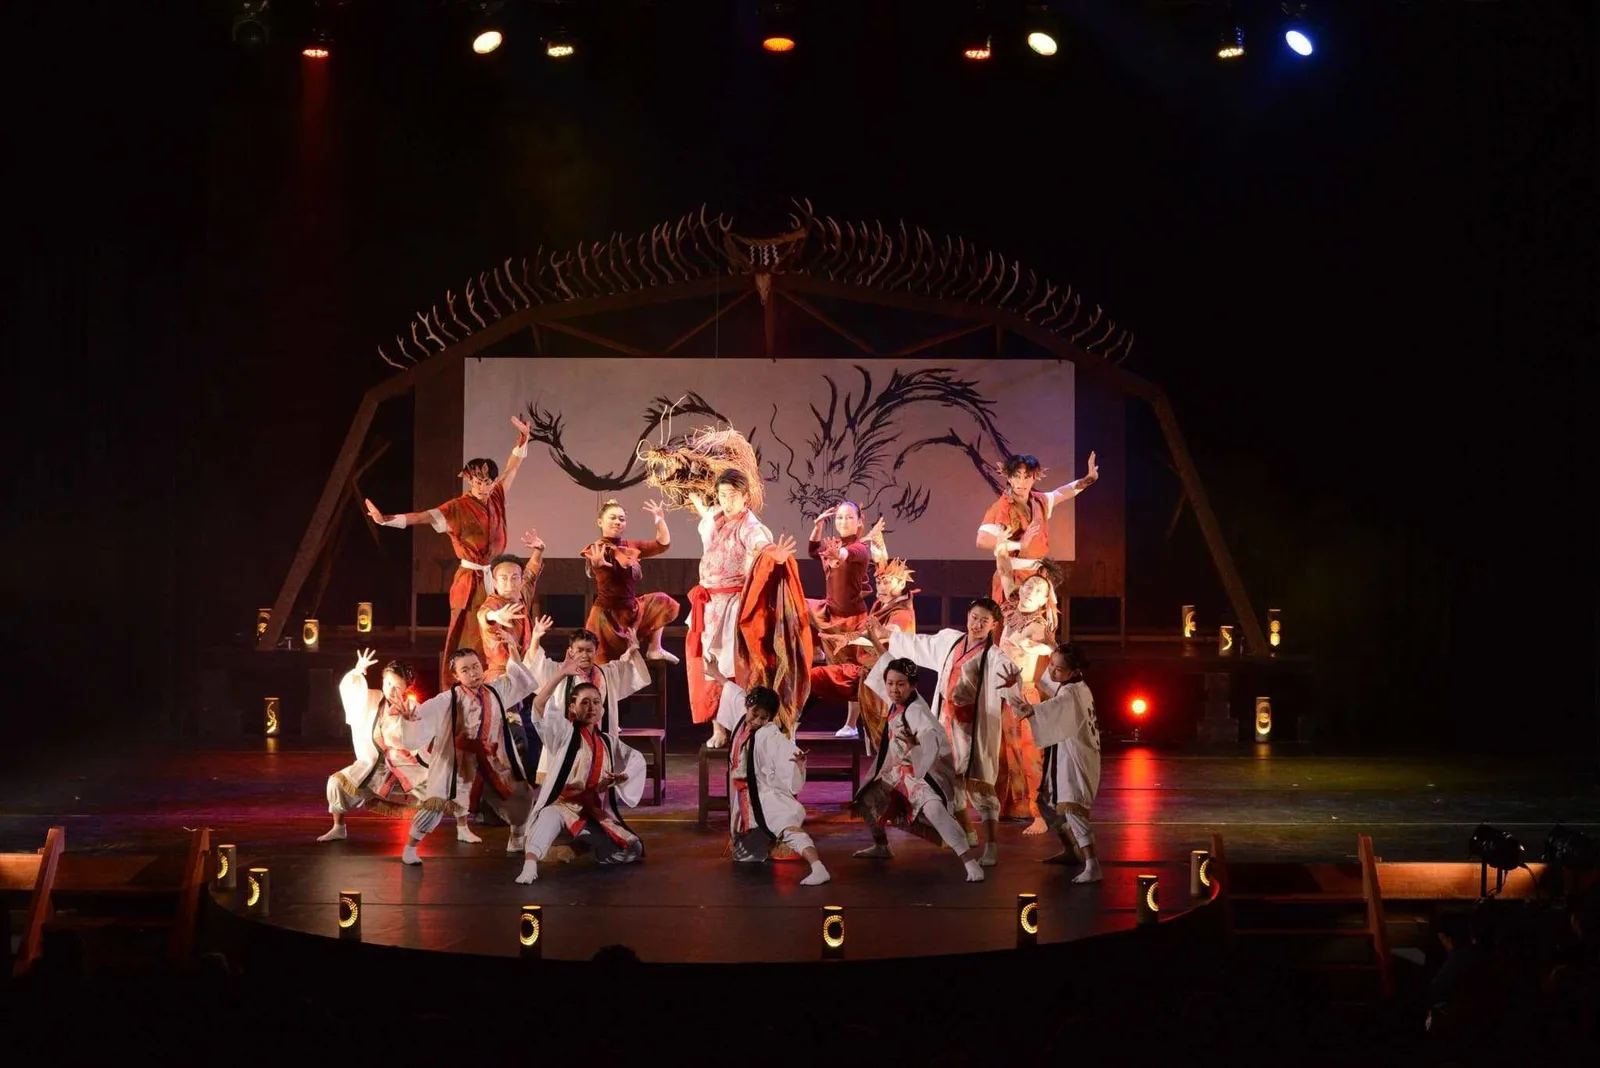
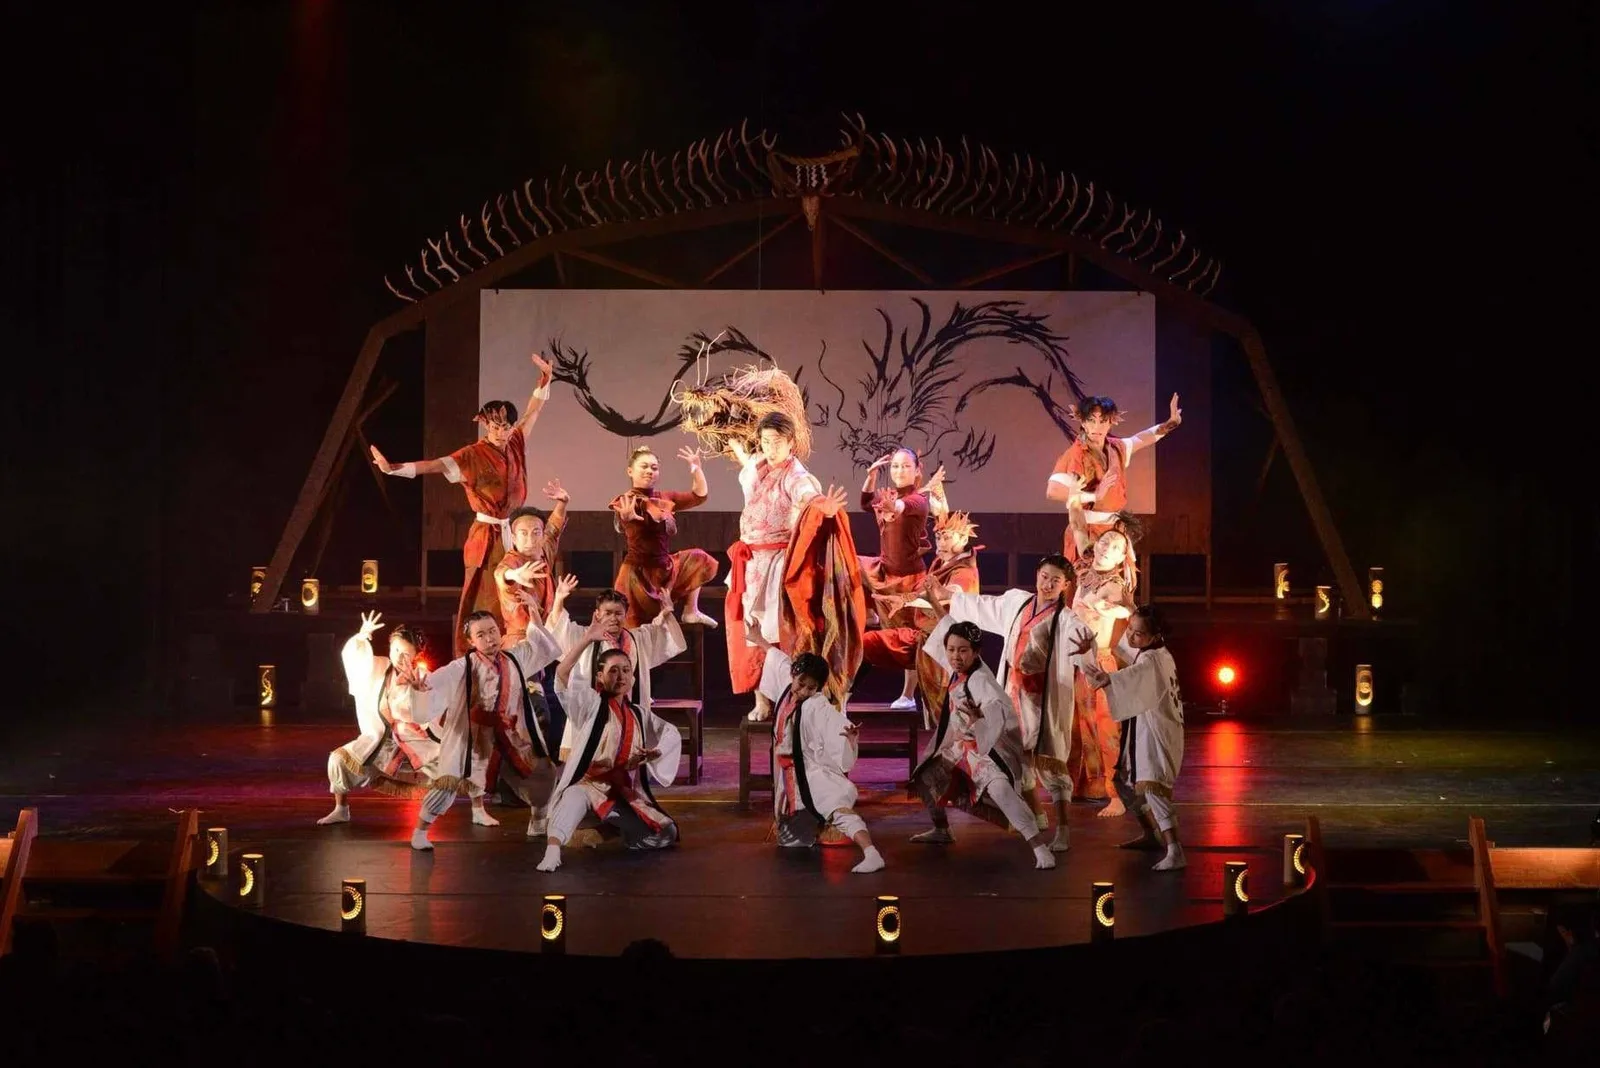
art: トップの舞台写真1枚目を、中心を合わせ直した写真に差し替え

diff --git a/art/index.html b/art/index.html
@@ -245,7 +245,7 @@
 </div>
 <figure>
 <div class="stage-slides" role="group" aria-roledescription="スライドショー" aria-label="舞台写真（参考イメージ）">
-<img class="is-on" src="media/stage-05.webp" alt="龍の絵を背に、大勢の踊り手が並ぶ舞台" width="1600" height="1068" loading="lazy">
+<img class="is-on" src="media/stage-05.webp?v=2026101402" alt="龍の絵を背に、大勢の踊り手が並ぶ舞台" width="1600" height="1068" loading="lazy">
 <img src="media/stage-01.webp" alt="赤と黒の衣装の踊り手たちが、扇や布を手に舞う" width="1280" height="853" loading="lazy">
 <img src="media/stage-02.webp" alt="白い衣装と白い髪の踊り手たちが、青い光の中で舞台に座る" width="1600" height="1200" loading="lazy">
 <img src="media/stage-03.webp" alt="赤い旗を大きくひるがえす踊り手" width="1280" height="853" loading="lazy">
